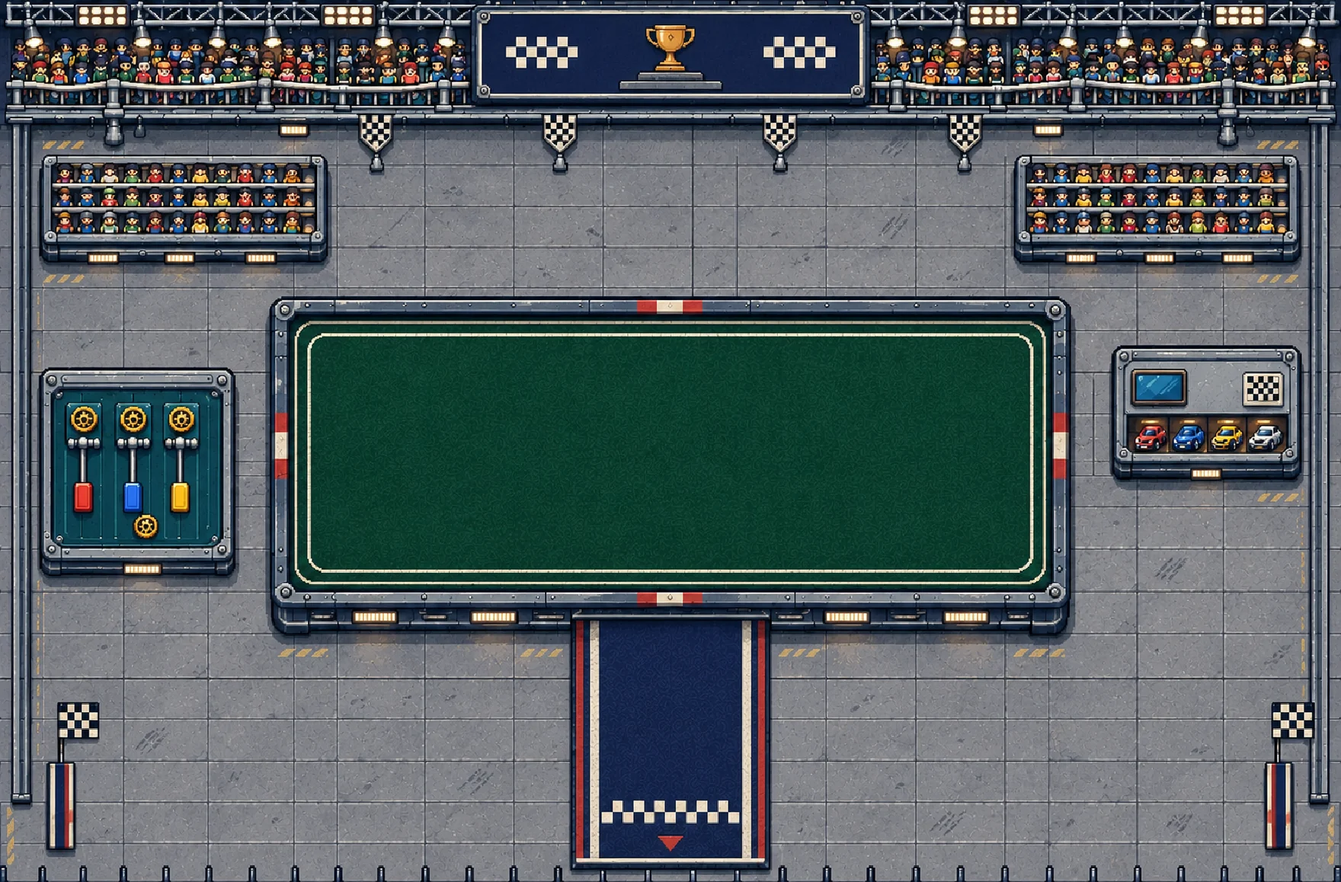
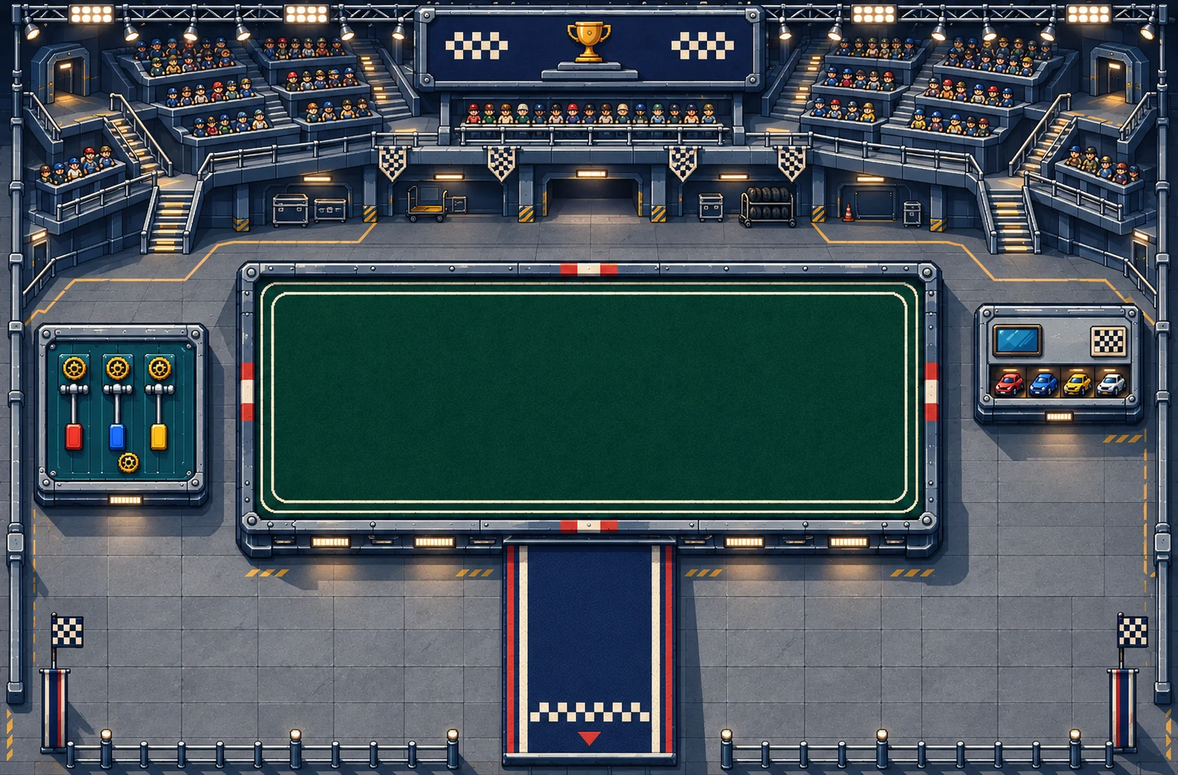
Rework 2D maps with detailed game art

diff --git a/src/game/TownArt.ts b/src/game/TownArt.ts
@@ -6,34 +6,39 @@ import {artNoise,paintPixelTree} from './PixelArtMaterials';
 import {SceneryPen} from './SceneryCanvas';
 
 /** Terrain is baked once. Pixel clusters follow a fixed, upper-left daylight. */
-function ground(c:CanvasRenderingContext2D){
+function ground(c:CanvasRenderingContext2D,chunkX=0,chunkWidth=townSize.width){
  const p=new SceneryPen(c),r=p.rect.bind(p),noise=artNoise;
- r(0,0,townSize.width,townSize.height,'#788f62');
+ const chunkEnd=chunkX+chunkWidth;
+ r(chunkX,0,chunkWidth,townSize.height,'#788f62');
  // Wide, quiet colour clusters keep the dense tufts from becoming visual noise.
- for(let y=0;y<townSize.height;y+=56)for(let x=0;x<townSize.width;x+=64){const n=noise(x,y),color=['#7b9364','#758d60','#7d9467','#748c60'][n%4];for(let row=0;row<6;row++){const inset=[16,7,2,0,5,13][row]+(noise(x,row)%3)*2;r(x+inset,y+row*7,54-inset*2,7,color);for(let edge=0;edge<3;edge++){r(x+inset-2-edge*2,y+row*7+edge*2,2,2,edge%2?color:'#788f62');r(x+54-inset+edge*2,y+row*7+2+edge,2,2,color);}}}
- for(let y=0;y<townSize.height;y+=9)for(let x=0;x<townSize.width;x+=11){const n=noise(x,y);if(n%5>1)continue;const xx=x+n%5,yy=y+(n>>>4)%4;
-  r(xx,yy+2,4,1,'#617d52');r(xx+1,yy,1,3,'#a0af77');r(xx+3,yy-1,1,3,'#8da66d');if(n%13===0)r(xx+1,yy+4,2,1,'#bdbe87');
+ const firstGrassX=Math.max(0,Math.floor(chunkX/64)*64);
+ for(let y=0;y<townSize.height;y+=56)for(let x=firstGrassX;x<chunkEnd+64;x+=64){const n=noise(x,y),color=['#7b9364','#758d60','#7d9467','#748c60'][n%4];for(let row=0;row<6;row++){const inset=[16,7,2,0,5,13][row]+(noise(x,row)%3)*2;r(x+inset,y+row*7,54-inset*2,7,color);for(let edge=0;edge<3;edge++){r(x+inset-2-edge*2,y+row*7+edge*2,2,2,edge%2?color:'#788f62');r(x+54-inset+edge*2,y+row*7+2+edge,2,2,color);}}}
+ // Larger clusters reduce busy pixel noise while retaining a natural ground rhythm.
+ const firstTuftX=Math.max(0,Math.floor(chunkX/17)*17);
+ for(let y=0;y<townSize.height;y+=18)for(let x=firstTuftX;x<chunkEnd+17;x+=17){const n=noise(x,y);if(n%5>2)continue;const xx=x+n%5,yy=y+(n>>>4)%5;
+  r(xx,yy+2,3+n%3,1,'#617d52');r(xx+1,yy,1,2+n%2,'#a0af77');r(xx+3,yy-1,1,2,'#8da66d');if(n%13===0)r(xx+1,yy+4,2,1,'#bdbe87');
  }
  // Stepped stone shore, reeds and broken reflections.
  for(let y=0;y<townSize.height;y+=8){const shore=townSize.width-210+Math.round(Math.sin(y/90)*12/2)*2;r(shore-24,y,40,8,'#87926c');r(shore-12,y,25,8,'#b4ab7c');r(shore-3,y,13,8,'#546c68');r(shore+5,y,townSize.width-shore-5,8,'#427e91');r(shore+12,y,townSize.width-shore-12,3,'#5798a6');
   for(let x=shore+25;x<townSize.width;x+=37){const n=noise(x,y);r(x+n%11,y+4,14+n%9,1,'#8ec3be');r(x+7,y+6,8,1,'#2e677f');if(n%9===0){r(shore-13,y-3,2,10,'#486c53');r(shore-10,y-5,1,11,'#9aa372');}}
  }
- const road=(x:number,y:number,w:number,h:number)=>{
+ const road=(x:number,y:number,w:number,h:number,trimLeft=true,trimRight=true)=>{
   r(x+4,y+5,w,h,'#34474a55');r(x,y,w,h,'#414f55');r(x+3,y+3,w-6,h-6,'#59666a');r(x+7,y+7,w-14,h-14,'#626f72');
   for(let yy=y+10;yy<y+h-7;yy+=11)for(let xx=x+10;xx<x+w-7;xx+=13){const n=noise(xx,yy);if(n%3===0)r(xx,yy,2,1,n%2?'#85918a':'#51646a');}
   // Irregular aggregate, tire polishing and repairs replace the flat asphalt fill.
   for(let yy=y+8;yy<y+h-8;yy+=7)for(let xx=x+8;xx<x+w-8;xx+=9){const n=noise(xx,yy,91);if(n%4===0)continue;const px=xx+n%6,py=yy+(n>>>5)%5;r(px,py,1+n%3,1,n%3===0?'#abb0a336':n%2?'#34494e36':'#d4c9a21b');if(n%11===0)r(px+1,py+1,2,1,'#253b4230');}
   for(let yy=y+20;yy<y+h-16;yy+=67)for(let xx=x+26;xx<x+w-24;xx+=83){const n=noise(xx,yy,193);if(n%5)continue;const px=xx+n%13,py=yy+(n>>>6)%14;r(px,py,9+n%14,1,'#283f4626');r(px+2,py+1,5+n%9,1,'#aab0a11b');}
   // Raised curbs, chipped paint and paired gutter lines give every road a profile.
-  r(x,y,w,3,'#c8c2a0');r(x,y+3,w,1,'#e0d3a5');r(x,y+4,2,h-8,'#c8c39c');r(x+w-3,y+4,3,h-8,'#8e9988');r(x,y+h-4,w,1,'#a7a995');r(x,y+h-3,w,3,'#77877f');
-  for(let yy=y+12;yy<y+h-12;yy+=22){r(x+5,yy,2,8,'#30454b');r(x+6,yy+1,1,6,'#abb1a3');r(x+w-8,yy,2,8,'#30454b');r(x+w-7,yy+1,1,6,'#abb1a3');}
+  r(x,y,w,3,'#c8c2a0');r(x,y+3,w,1,'#e0d3a5');if(trimLeft)r(x,y+4,2,h-8,'#c8c39c');if(trimRight)r(x+w-3,y+4,3,h-8,'#8e9988');r(x,y+h-4,w,1,'#a7a995');r(x,y+h-3,w,3,'#77877f');
+  for(let yy=y+12;yy<y+h-12;yy+=22){if(trimLeft){r(x+5,yy,2,8,'#30454b');r(x+6,yy+1,1,6,'#abb1a3');}if(trimRight){r(x+w-8,yy,2,8,'#30454b');r(x+w-7,yy+1,1,6,'#abb1a3');}}
  };
- for(const x of townRoads.vertical){road(x-70,72,140,2250);for(let y=88;y<2320;y+=30){r(x-2,y,4,13,'#c9bd8d');r(x-1,y,1,11,'#e4d5a5');for(const xx of [x-70,x+63]){r(xx,y,7,1,'#6e8279');r(xx,y+1,7,1,'#d8cfaa');}}
+ for(const x of townRoads.vertical){if(x+70<chunkX||x-70>chunkEnd)continue;road(x-70,72,140,2250);for(let y=88;y<2320;y+=30){r(x-2,y,4,13,'#c9bd8d');r(x-1,y,1,11,'#e4d5a5');for(const xx of [x-70,x+63]){r(xx,y,7,1,'#6e8279');r(xx,y+1,7,1,'#d8cfaa');}}
   for(let y=185;y<2290;y+=210){r(x+53,y,9,17,'#3d535a');for(let i=0;i<4;i++)r(x+54,y+2+i*4,7,1,'#85958e');}
  }
- for(const y of townRoads.horizontal){road(64,y-70,townSize.width-320,140);for(let x=80;x<townSize.width-256;x+=30){r(x,y-2,13,4,'#c9bd8d');r(x,y-2,12,1,'#e2d3a2');for(const yy of [y-70,y+63])r(x,yy,1,7,'#70847d');}}
+ for(const y of townRoads.horizontal){const roadStart=64,roadEnd=townSize.width-256,start=Math.max(roadStart,chunkX),end=Math.min(roadEnd,chunkEnd);if(end>start)road(start,y-70,end-start,140,start===roadStart,end===roadEnd);const firstMarker=80+Math.ceil((Math.max(80,chunkX-13)-80)/30)*30;for(let x=firstMarker;x<Math.min(roadEnd,chunkEnd);x+=30){r(x,y-2,13,4,'#c9bd8d');r(x,y-2,12,1,'#e2d3a2');for(const yy of [y-70,y+63])r(x,yy,1,7,'#70847d');}}
  for(const x of townRoads.vertical)for(const y of townRoads.horizontal){r(x-53,y-53,106,106,'#667377');for(let i=0;i<5;i++){r(x-44+i*19,y-64,9,30,'#d8d1b0');r(x-44+i*19,y+34,9,30,'#d8d1b0');}p.ellipse(x+29,y+20,9,7,'#485e64');p.ellipse(x+29,y+19,8,6,'#879188');for(let i=0;i<3;i++)r(x+24,y+16+i*3,10,1,'#596f70');}
  for(const v of townVenues){
+  if(v.x+v.w+80<chunkX||v.x-80>chunkEnd)continue;
   const cx=v.x+v.w/2,cy=v.entrance==='south'?v.y+v.h+30:v.y-30,roadY=townRoads.horizontal.reduce((a,b)=>Math.abs(b-cy)<Math.abs(a-cy)?b:a);
   const pad=v.kind==='outdoor'?{x:v.x-8,y:v.y-8,w:v.w+16,h:v.h+28}:{x:v.x-24,y:v.y-65,w:v.w+48,h:v.h+118};
   r(pad.x+3,pad.y+4,pad.w,pad.h,'#506d4e55');r(pad.x,pad.y,pad.w,pad.h,'#b0af8c');
@@ -44,14 +49,15 @@ function ground(c:CanvasRenderingContext2D){
  }
  // House fronts have their own stone thresholds and planted yards.
  for(const b of townBlocks){
+  if(b.x+b.w+8<chunkX||b.x-8>chunkEnd)continue;
   const y=b.y+b.h,cx=b.x+b.w/2;
   r(b.x-6,y+3,b.w+12,32,'#6c845b');r(b.x-5,y+4,b.w+10,1,'#a3ad7b');
   for(let yy=y+6;yy<y+55;yy+=10){r(cx-10,yy,20,8,'#b8b496');r(cx-9,yy,18,1,'#d6caa7');r(cx-10,yy+7,20,1,'#8d977c');}
   for(const x of [b.x+1,b.x+b.w-19]){r(x,y+18,18,6,'#3e624b');r(x+1,y+17,16,3,'#769364');r(x+3,y+17,3,1,'#acb681');r(x+11,y+18,2,1,'#c2ae83');}
  }
  // Park pond: layered coping stones and reeds, instead of flat nested squares.
- r(1458,1588,184,136,'#6d826c');r(1460,1590,180,132,'#b1aa88');for(let x=1462;x<1640;x+=18){r(x,1591,16,5,'#d0c6a0');r(x,1715,16,5,'#999c83');}r(1470,1600,160,112,'#345e6b');r(1473,1603,154,106,'#578e92');r(1477,1606,146,98,'#6aa59f');
- for(let i=0;i<45;i++){const n=noise(i,42),x=1482+n%133,y=1610+(n>>>9)%84;r(x,y,6+n%10,1,'#a2c5b4');if(i%5===0){p.ellipse(x,y+6,4,2,'#527f62');r(x-1,y+5,2,1,'#a4b68a');}}
+ if(chunkX<1642&&chunkEnd>1458){r(1458,1588,184,136,'#6d826c');r(1460,1590,180,132,'#b1aa88');for(let x=1462;x<1640;x+=18){r(x,1591,16,5,'#d0c6a0');r(x,1715,16,5,'#999c83');}r(1470,1600,160,112,'#345e6b');r(1473,1603,154,106,'#578e92');r(1477,1606,146,98,'#6aa59f');
+ for(let i=0;i<45;i++){const n=noise(i,42),x=1482+n%133,y=1610+(n>>>9)%84;r(x,y,6+n%10,1,'#a2c5b4');if(i%5===0){p.ellipse(x,y+6,4,2,'#527f62');r(x-1,y+5,2,1,'#a4b68a');}}}
  for(let i=0;i<340;i++){const x=80+noise(i,1)%2820,y=100+noise(i,2)%2190;if(townVenues.some(v=>x>v.x-35&&x<v.x+v.w+35&&y>v.y-75&&y<v.y+v.h+70)||townRoads.vertical.some(v=>Math.abs(v-x)<86)||townRoads.horizontal.some(v=>Math.abs(v-y)<86))continue;
   r(x,y,1,6,'#496f50');r(x-2,y+2,2,1,'#a4b87d');r(x+1,y+3,2,1,'#7e9d64');r(x-1,y-2,3,1,i%3?'#d4c18c':'#cd9e99');r(x-2,y-1,5,1,i%3?'#e7d7a4':'#e1b7af');r(x,y-1,1,1,'#f2df9d');
  }
@@ -79,7 +85,7 @@ function house(scene:Phaser.Scene,block:typeof townBlocks[number],index:number){
 }
 export function drawTown(scene:Phaser.Scene,progress:WorldProgress){
  // 大きな街でも個々の地面テクスチャは2048px以下の幅に保つ。
- for(let x=0;x<townSize.width;x+=2048){const key=`midorikawa-ground-17-${x}`;if(!scene.textures.exists(key)){const texture=scene.textures.createCanvas(key,Math.min(2048,townSize.width-x),townSize.height)!;texture.context.translate(-x,0);ground(texture.context);texture.refresh();texture.setFilter(Phaser.Textures.FilterMode.NEAREST);}scene.add.image(x,0,key).setOrigin(0).setDepth(-100);}
+ for(let x=0;x<townSize.width;x+=2048){const width=Math.min(2048,townSize.width-x),key=`midorikawa-ground-17-${x}`;if(!scene.textures.exists(key)){const texture=scene.textures.createCanvas(key,width,townSize.height)!;texture.context.translate(-x,0);ground(texture.context,x,width);texture.refresh();texture.setFilter(Phaser.Textures.FilterMode.NEAREST);}scene.add.image(x,0,key).setOrigin(0).setDepth(-100);}
 
  townBlocks.forEach((block,index)=>house(scene,block,index));
  for(const venue of townVenues)if(venue.kind==='outdoor')drawOutdoorCourse(scene,venue,isVenueOpen(venue,progress));else drawVenueFacade(scene,venue,isVenueOpen(venue,progress));

diff --git a/src/game/ThemedShopArt.ts b/src/game/ThemedShopArt.ts
@@ -75,7 +75,18 @@ function paintFixture(p:SceneryPen,f:Fixture,t:ShopTheme){
  const w=f.w,h=f.h;p.shadow(1,0,w-6,h-7);
  const casework=()=>{p.round(0,0,w,h,4,t.ink);p.gradient(2,2,w-4,h-6,t.metal,t.wood);p.rect(4,3,w-8,2,'#f9efd999');p.rect(5,h-6,w-10,3,t.ink);p.material(4,3,w-8,h-8,'wood',Math.round(w+h));for(const x of [4,w-5])for(const y of [4,h-8]){p.rect(x,y,1,1,t.light);p.rect(x+.5,y+.5,.5,.5,t.ink);}};
  if(f.kind==='plant'){p.plant(w/2,h*.65,1.2);return;}
- if(f.kind==='track'){casework();p.round(6,6,w-12,h-12,5,t.ink);p.line([[8,h-9],[w-8,h-9]],t.metal,1);return;}
+ if(f.kind==='track'){
+  casework();p.round(6,6,w-12,h-12,5,t.ink);
+  if(t.style==='atelier'){
+   p.gradient(9,9,w-18,h-23,'#6f668b','#33334b');p.rect(9,9,w-18,1,'#d8c5ef');
+   for(const [i,x] of [w*.29,w*.70].entries()){
+    const color=i?'#d7b44f':'#728fd1';p.shadow(x-37,29,74,66);p.round(x-37,29,74,66,4,'#352e49');p.round(x-34,32,68,58,3,'#76668d');
+    p.rect(x-30,36,60,2,'#ddd0bb');p.glow(x,58,28,i?'#ffd88930':'#b4ccff30');car(p,x,60,.78,color);
+    p.line([[x-29,86],[x+29,86]],'#d7c5a2',1);p.rect(x-15,84,30,2,i?'#d8bd73':'#9eb9e0');
+   }
+  }else p.line([[8,h-9],[w-8,h-9]],t.metal,1);
+  return;
+ }
  if(f.kind==='legends'){casework();p.gradient(6,5,w-12,h-12,t.ink,'#152f40');for(let i=0;i<4;i++){const x=16+i*(w-26)/4;p.glow(x+24,31,28,t.light+'30');p.round(x,12,52,46,4,'#173543');car(p,x+26,35,.62,['#5d95d5','#d4ad5e','#b2bdc5','#6778a8'][i]);p.rect(x+3,12,45,1,t.light);p.line([[x+2,14],[x+7,52],[x+16,52],[x+12,14]],'#e3f8ec33',1);}return;}
  if(f.kind==='counter'){casework();p.gradient(5,5,w-10,h*.45,'#e7e1c7',t.wood);p.round(7,6,w*.55,h*.4,3,t.ink);p.gradient(10,9,w*.52,h*.32,'#659b9c','#264a5f');for(let i=0;i<3;i++){car(p,29+i*26,24,.35,['#c26c69','#779dc2','#d4bd72'][i]);}p.poly([[11,10],[42,10],[28,37],[11,37]],'#e4f0da33');p.round(w-41,9,28,17,2,'#354955');p.rect(w-37,12,20,9,'#a3c8b7');p.round(w-45,29,36,5,1,'#d8d0b3');p.rect(w-63,11,12,17,'#e3d6b5');for(let i=0;i<4;i++)p.rect(w-61,14+i*3,8,1,'#9f977e');p.rect(5,h*.5,w-10,h*.42,t.wood);for(let x=15;x<w-10;x+=23)p.line([[x,h*.54],[x,h-11]],'#fae3bb22');p.rect(8,h*.54,w-16,1,t.metal);return;}
  if(f.kind==='bookshelf'){casework();for(let row=0;row<2;row++){p.rect(6,6+row*20,w-12,17,t.ink);for(let i=0;i<13;i++){const x=9+i*(w-20)/13;p.rect(x,8+row*20,8,14,['#9d5a68','#5f8b99','#bba15c','#7b9c7e'][i%4]);p.rect(x+1,8+row*20,1,14,'#eee4bf88');p.rect(x+2,11+row*20,5,1,'#e5dcbd');}p.rect(5,23+row*20,w-10,2,t.metal);}return;}
@@ -86,4 +97,16 @@ function paintFixture(p:SceneryPen,f:Fixture,t:ShopTheme){
  car(p,w*.43,h*.39,1.05,'#c25e66');for(let i=0;i<3;i++){const x=w-42+i*10;p.round(x,13,5,23,2,'#b8c6bf');p.round(x-1,31,7,9,2,['#bb716a','#63899a','#c5ac6e'][i]);p.rect(x+1,14,1,12,'#f3ecdb');}p.round(11,12,17,32,2,'#b1beb5');p.ellipse(19,21,5,5,'#55747a');p.rect(14,35,10,3,'#e2cf9e');p.rect(12,h-19,w-24,10,t.metal);for(const x of [w*.25,w*.7])p.round(x,h-17,18,3,1,t.ink);
 }
 export function drawThemedRoom(scene:Phaser.Scene,id:ShopId){if(drawPaintedScenery(scene,id))return;const key=texture(scene,`room-v3-${id}`,960,640,p=>paintShopRoom(p,id));scene.add.image(0,0,key).setOrigin(0).setDisplaySize(960,640).setDepth(-100);}
-export function drawThemedFixture(scene:Phaser.Scene,f:Fixture,id:ShopId){if(drawPaintedFixture(scene,id,f))return;const key=texture(scene,`fixture-v3-${id}-${f.kind}-${f.w}-${f.h}`,f.w+9,f.h+10,p=>{if(isPracticeCourse(id)&&f.kind==='shelf'){const t=shopThemes[id];p.rect(0,0,f.w,f.h,t.ink);for(let row=0;row<6;row++){const y=row*29;p.gradient(2,y+1,f.w-4,26,t.metal,t.ink);for(let col=0;col<3;col++){const x=10+col*(f.w-20)/3;p.round(x,y+4,15,13,2,row%2?t.accent:t.wood);p.ellipse(x+7,y+4,4,4,['#d4b991','#bd9277','#e6c89d'][col]);p.rect(x+4,y+15,7,7,'#354e65');}}}else paintFixture(p,f,shopThemes[id]);});scene.add.image(f.x,f.y,key).setOrigin(0).setDisplaySize(f.w+9,f.h+10).setDepth(f.y+f.h);}
+export function drawThemedFixture(scene:Phaser.Scene,f:Fixture,id:ShopId){
+ // The top-center display is a fixed game object for four named legend machines.
+ // Background art may contain decorative wall shelving in the same area; always
+ // draw this fixture from its semantic type so the interactive object matches.
+ if(f.kind==='legends'||f.kind==='track'&&id==='atelier'){
+  const role=f.kind==='legends'?'legends':'machine-showcase';
+  const key=texture(scene,`fixture-v4-${id}-${role}-${f.w}-${f.h}`,f.w+9,f.h+10,p=>paintFixture(p,f,shopThemes[id]));
+  scene.add.image(f.x,f.y,key).setOrigin(0).setDisplaySize(f.w+9,f.h+10).setDepth(f.y+f.h);return;
+ }
+ if(drawPaintedFixture(scene,id,f))return;
+ const key=texture(scene,`fixture-v3-${id}-${f.kind}-${f.w}-${f.h}`,f.w+9,f.h+10,p=>{if(isPracticeCourse(id)&&f.kind==='shelf'){const t=shopThemes[id];p.rect(0,0,f.w,f.h,t.ink);for(let row=0;row<6;row++){const y=row*29;p.gradient(2,y+1,f.w-4,26,t.metal,t.ink);for(let col=0;col<3;col++){const x=10+col*(f.w-20)/3;p.round(x,y+4,15,13,2,row%2?t.accent:t.wood);p.ellipse(x+7,y+4,4,4,['#d4b991','#bd9277','#e6c89d'][col]);p.rect(x+4,y+15,7,7,'#354e65');}}}else paintFixture(p,f,shopThemes[id]);});
+ scene.add.image(f.x,f.y,key).setOrigin(0).setDisplaySize(f.w+9,f.h+10).setDepth(f.y+f.h);
+}

diff --git a/docs/art-overhaul-progress.md b/docs/art-overhaul-progress.md
@@ -1,0 +1,76 @@
+# セイラン 2Dアート全面改修 — 対象台帳と進捗
+
+この台帳は全面改修の作業範囲と、実機確認の有無を明確にするためのもの。変更を一部の画面だけで「全体改修済み」と扱わない。
+
+## 共通仕様
+
+- カメラ: 2D探索画面は一貫した南向き3/4俯瞰。壁・床・家具・人物は同じ投影にそろえ、文字/UIだけは高DPIで滑らかに描く。
+- 論理スケール: 屋内960×640、公式会場の可視範囲880×579（roomViewの原画オフセット込み）、町5400×2400。見た目の整列は16ワールド単位を目安にするが、既存の自由移動座標は維持する。
+- キャラクター: 原画60×80、表示48×64を基準に足元と接地影を合わせる。NPC個性、歩行フレーム、会話肖像、当たり判定は同じキャラクター定義を使う。
+- 原画密度: 屋内は論理寸法の1.6〜2倍、公式会場は現行roomViewに合わせた原画、人物は原画枠に沿う密度を基準にする。拡大処理だけで細部を作ったことにはしない。
+- 画風: 手描きの高密度ピクセルクラスター、限定パレット、整理した輪郭、左上光源、4段階程度の陰影、接地影。床はマット、照り返しは小さくする。展示商品は人物・棚に対する縮尺を守る。
+- 高DPI: CanvasのCSS表示寸法と内部解像度を分離し、端末DPRは上限2。原画はNEAREST、動き・文字・UIは読みやすさを優先する。
+- 互換性: イベント、NPC、入口、タップ矩形、衝突、出現位置、レース経路、セーブ形式を変える場合は関連する全座標とデータ互換を同時に更新する。
+
+## 対象台帳
+
+| 対象 | データ/描画 | 状態 |
+| --- | --- | --- |
+| 街全域、道路、歩道、芝生、住宅、商店、植栽、外周 | `world.ts`, `TownArt.ts`, `PixelArtMaterials.ts`, `VenueFacadeArt.ts`, `WorldDetailArt.ts` | 調査済み。地形・施設密度・長距離表示を評価して改修 |
+| 屋外コース、巨大マスターコース4面 | `OutdoorCourseArt.ts`, `shopTrackLayout.ts`, `world.ts` | 全コースの表示・経路・アクセスを調査して改修 |
+| こもれび模型店 | `scenery/komorebi.webp`, `shop.ts`, `shopLayout.ts` | 背景更新・実画面確認 |
+| あおぞら模型店 | `scenery/aozora.webp`, `shop.ts`, `shopLayout.ts` | 背景更新、左右反転の確認待ち |
+| ひなた模型店 | `scenery/hinata.webp`, `shop.ts`, `shopLayout.ts` | 背景更新 |
+| わかば模型店 | `scenery/wakaba.webp`, `shop.ts`, `shopLayout.ts` | 背景更新 |
+| ゆうなぎ模型店 | `scenery/yuunagi.webp`, `shop.ts`, `shopLayout.ts` | 背景更新 |
+| あかつき模型店 | `scenery/akatsuki.webp`, `shop.ts`, `shopLayout.ts` | 背景更新 |
+| 星霧模型工房 | `scenery/atelier.webp`, `shop.ts`, `shopLayout.ts` | 背景更新 |
+| ながみち耐久工房 | `scenery/endurance.webp`, `shop.ts`, `shopLayout.ts` | 背景更新 |
+| 駆動・速度・悪路の専門店 | `scenery/hinata.webp`, `aozora.webp`, `wakaba.webp`, `specialtyParts.ts` | 共用の3背景を更新 |
+| ほしくず模型店 | `scenery/hoshikuzu.webp`, `ThemedShopArt.ts` | 新規専用背景を追加 |
+| 若葉レース場 | `scenery/stadium-5.webp`, `OfficialVenueArt.ts`, `officialVenue.ts` | 背景更新、実画面再撮影待ち |
+| 星空レース場 | `scenery/stadium-9.webp`, 同上 | 背景更新 |
+| 緑川グランプリ会場 | `scenery/stadium-10.webp`, 同上 | 背景更新 |
+| 天頂決戦会場 | `scenery/stadium-7.webp`, 同上 | 背景更新 |
+| 図書館 | `LibraryRoomArt.ts`, `libraryRoom.ts` | 棚・机・導線を対象 |
+| 受付、コース案内、記録掲示板、会話マーカー | `CounterArt.ts`, `RecordBoardArt.ts`, `ShopScene.ts`, `raceIntro.ts` | 既存用途とタップ範囲を維持して対象 |
+| プレイヤー、街NPC、店員、レジェンド、観客、メカニック | `PeopleArt.ts`, `PlayerArt.ts`, `NpcPeopleArt.ts`, `LegendPeopleArt.ts`, `TownCrowdArt.ts`, `PersonTexture.ts` | 既存の個別原画・60×80設計・48×64表示・足元影を維持し、全方向/歩行フレームの既存テスト確認 |
+| パーツ商品画像181点 | `assets/parts`, `PartArtwork.tsx`, `BodyArtwork.tsx` | 一覧を視覚監査。商品ごとの精密な製品レンダーと透過背景を維持 |
+| キャラクター肖像19点とNPCアトラス | `assets/portraits`, `NpcPeopleArt.ts` | 全肖像を一覧監査。既存のキャラ画風、顔立ち、歩行キャラとの対応を維持 |
+| 実走レースの3Dマシン/コース、UI、タッチ操作 | `TrialView.tsx`, `MachineModel.ts`, CSS/UI | 2D世界との縮尺・色調和、既存機能を確認 |
+
+## 進捗
+
+- [x] 最新Previewを確認。作業開始時`a70c40b`、作業中にリモートの独立変更`4b5020e`を取り込み。未追跡`pnpm-workspace.yaml`は保持。
+- [x] 描画経路、旧背景12点、店舗・会場配置、人物/パーツ素材構成を棚卸し。
+- [x] 共通仕様と対象台帳を作成。
+- [x] 店内9室と公式会場4面の原画を再制作し、店舗に未登録だったほしくず専用背景を追加。
+- [x] 店舗の試走台背景から描き込みコースを除き、ゲームデータの実コース表示と重なる問題を修正。
+- [x] レジェンド展示に4台の車両を表示する前景を追加。
+- [x] 町の地面を区画ごとに描いてから配置し、草地の粒ノイズを減らす。
+- [x] 町、図書館、屋外コース、観客、家具、商品、人物を一覧/実画面/コンタクトシートで監査。配置・役割・縮尺が合う既存の図書館・コース・観客・人物・商品原画はそのまま使用。
+- [x] 移動、会話対象の吹き出し、コース描画、店内と会場の人物/家具重なりを実画面で確認。座標・イベント・当たり判定・セーブ形式に変更なし。
+- [x] 全9店舗、4公式会場、町、図書館を1280×800で撮影。店舗と町を390×844・DPR2でも撮影。Chromiumで実行時エラーなし。iPhone Safari実機では未確認。
+- [x] TypeScript型チェックとVite本番ビルド成功。最新Previewで全375テストを実行し372件成功。描画レイアウトとDPR2の対象テスト4件も通過。
+- [ ] 下記3件の失敗は今回変更した背景・町描画・什器ファイル外で再現。完了前に一覧を報告する。
+
+## 今回の変更と未解決事項
+
+- 店内9室の高精細WebPと公式会場4面を再制作し、ほしくずの専用背景を追加。全背景を必要な場面だけロードする既存構造は維持。
+- `drawShopTrack`が実際のコースデータを描くため、店背景にコースを焼き込まず、模型店の画面ではコース線が二重に見えないことを確認。
+- レジェンド展示には4台、星霧工房の販売展示には2台の前景車体を描画。販売専門店で遊べないレースコースを表示しない。
+- 町地面の3枚タイルは、タイルの区画内だけ草・歩道・建物接続を描画し、区画ごとの全域再描画をやめた。草地の細かな斑点を減らし、スマホのDPR2画面で確認。
+- `src/assets/parts`の181商品画像は均一な物撮り・陰影・透過背景があり、形状読解に使われるため保持。歩行キャラと肖像は個人デザインを保ち、高精細な既存16bit肖像/3倍原画を保持。
+- 全テスト実行は375件中372件成功。失敗は以下の通り（対象実装は今回変更していない）: `dirtCrawl.test.ts` 通常装備の砂路面走行、`installedAppearance.test.ts` 耐久ブレース外観、`raceAdvice.test.ts` 耐久店の案内文。
+- `pnpm typecheck`は環境ラッパーの`ERR_PNPM_IGNORED_BUILDS`で依存インストール段階に停止。既存の`./node_modules/.bin/tsc --noEmit`は成功。`./node_modules/.bin/vite build`も成功（大きな既存JSチャンクのサイズ警告あり）。
+- 比較画像と全店舗一覧は`/workspace/scratch/art-audit/review-all-shops.jpg`、元/新店舗は`baseline/komorebi.png`と`current/shop-final.png`、会場は`baseline/stadium-5.png`と`current/final-stadium-5.png`、町は`baseline/town.png`と`current/final-town.png`、モバイル相当は`current/mobile-komorebi.png`と`current/mobile-town.png`にある。
+
+## マップ確認一覧
+
+屋内: こもれび、あおぞら、ひなた、わかば、ゆうなぎ、あかつき、星霧、耐久、ほしくず、駆動、速度、悪路、図書館。
+
+屋外: 町全域、緑川町立図書館外観、全店舗外観、全レース施設、全通常コース、4巨大マスターコース。
+
+公式会場: 若葉ダート、星空テクニカル、緑川グランプリ、天頂ゼニスクラウン。
+
+この文書内のチェック状態は実際の確認後に更新する。スクリーンショット未取得の表示を確認済みとしない。

diff --git a/docs/scenery-art.md b/docs/scenery-art.md
@@ -2,7 +2,7 @@
 
 ## 施設原画
 
-通常店舗、専門店、耐久店、公式会場の背景は`src/assets/scenery/<施設ID>.webp`に置く。既存の12施設原画を保ちながら、2026-11-10に主要店舗5店と公式会場1棟を二度目の大幅な描き直し対象にした。新しい原画は店舗1536×1024（論理座標の1.6倍）、会場1760×1158。こもれび・あおぞら・ひなた・ゆうなぎ・atelierの5室を今回の対象とし、わかば・あかつき・耐久店と残る公式会場は前回原画を維持する。木、鋼板、ゴム、ガラス、石床などの材質と照明のコントラストを上げ、元の一様なタイル床を避けた。WebP品質92でも各ファイルは約0.5〜0.7MBに収まり、シーンごとに必要な背景だけ読み込む。既存作品の画像・ロゴ・キャラクターデザインは使わない。
+2026-11-10の全面改修で、店内9背景と公式会場4背景、合計13原画を独自の3/4俯瞰画調へ描き直した。通常店・専門店・耐久店・クリア後店は`src/assets/scenery/<施設ID>.webp`の1536×1024 WebP。公式会場は1546×1017で、論理roomViewに対し近いピクセル密度を保つ。木、塗装鋼板、ゴム、ガラス、石床を描き分け、広い歩行床は落ち着かせる。各場面で必要な背景だけ読み込む。既存作品の画像・ロゴ・キャラクターデザインは使わない。
 
 | 施設ID | 維持するテーマ |
 | --- | --- |
@@ -14,10 +14,11 @@
 | akatsuki | テラコッタ、えんじ色、控えめなトロフィー |
 | atelier | 薄紫と灰色、工具と小さな天体モチーフ |
 | endurance | 耐久レース用の実用的な設備と落ち着いた配色 |
+| hoshikuzu | クリア後の希少パーツ展示、紺色と銀色の作業場 |
 | stadium-5 | 塗装スチール、コンクリート床、観客席とピット用品 |
 | stadium-7 / 9 / 10 | 大会ごとの紺・紫・赤系のアクセントと観客席 |
 
-店舗画像は全室`{x:0,y:0,width:960,height:640}`へ、会場画像は`roomView={x:40,y:35,width:880,height:579}`へ配置する。あおぞらは原画と前景切り抜きを同じように左右反転する。`drawPaintedFixture`は背景と同じ画像から同じ座標変換で家具を切り出し、人物との前後関係を保つ。家具の位置、歩行通路、当たり判定、入口、設備のタップ範囲は`shopLayout`と既存データを使い、変更しない。コース面は背景へ描き込まず、`drawShopTrack`が実形状を描画する。
+店舗画像は全室`{x:0,y:0,width:960,height:640}`へ、会場画像は`roomView={x:40,y:35,width:880,height:579}`へ配置する。あおぞらは原画と前景切り抜きを同じように左右反転する。家具の位置、歩行通路、当たり判定、入口、設備のタップ範囲は`shopLayout`と既存データを使い、変更しない。レジェンド展示は意味のある4台のマシンを前景へ描き、コース面は背景へ描き込まず、`drawShopTrack`が実際のコースデータを描画する。
 
 通常の模型店では南側入口から受付、左右の商品棚・本棚、奥の整備台、右奥の試走コースへ通路が続く。公式会場は外周の観覧席から中央のコースを見られる配置を保つ。画像上の飾りを増やす場合も、通路や操作対象の位置を塞がない。
 
@@ -29,11 +30,11 @@
 
 ## 原画更新の手順
 
-1. 現在の画像と`docs/art/shop-layout-reference.png`を配置参照として開く。
-2. 同じ俯瞰画角、キャンバス比率、家具の矩形、空いた通路を固定して描き直す。
-3. 各店の色テーマと、商品箱・工具・模型コースなどの固有要素を維持する。
-4. 背景と前景を同じ原画から切り出し、`paintedSceneryLayout`と`paintedFixtureFrame`で位置を照合する。
-5. 同じカメラ位置のスクリーンショットで、人物・家具・通路・文字の重なりを確認する。
+1. `shopLayout`/`officialVenue.ts`と現在の画面で家具・コース位置を確定する。
+2. 同じ俯瞰画角、キャンバス比率、家具の矩形、空いた通路を保って原画を描き直す。
+3. 各施設の色テーマと商品棚・工具・空の走行台の用途を合わせる。
+4. 前景切り抜き、家具深度、実コースを同じカメラのスクリーンショットで照合する。
+5. 重なりや違和感を見つけたら原画または前景描画を修正し、再撮影する。
 
 町の画像は広域一枚絵にしない。街の配置変更が必要になった場合は、`world.ts`の建物・道路・入口・衝突データと`townCrowd.ts`の人物配置を先に見直し、ゲーム内の座標関係をテストする。
 

diff --git a/docs/shop-interior-art.md b/docs/shop-interior-art.md
@@ -2,12 +2,12 @@
 
 ## 現在の制作方式
 
-実際の店内表示は`src/assets/scenery/<施設ID>.webp`を`PaintedScenery`から読み込む。`src/assets/shop/interior-v1.webp`はこもれび模型店の原画を確認する参照コピーで、ゲーム内では施設別画像が使われる。2026-11-10の二次更新ではこもれび・あおぞら・ひなた・ゆうなぎ・星霧工房を別々の素材・照明設計で描き直した。わかば・あかつき・耐久店の原画は従来版を保つ。専門店の駆動・速度・悪路店はそれぞれひなた・あおぞら・わかばの背景を共有する。
+実際の店内表示は`src/assets/scenery/<施設ID>.webp`を`PaintedScenery`から読み込む。`src/assets/shop/interior-v1.webp`はこもれび模型店の確認用コピー。2026-11-10の全面改修で、こもれび・あおぞら・ひなた・わかば・ゆうなぎ・あかつき・星霧・耐久・ほしくずの9室を共通画角と素材密度にそろえた。ほしくずは独立原画にして、これまで専用画像がなかった部屋も揃えた。駆動・速度・悪路の専門店は既存のとおり、ひなた・あおぞら・わかばの背景を共有する。
 
-- 論理室内は960×640。背景原画は従来の1920×1280または新しい1536×1024。すべてWebPで、画像の個性を保ちながらシーンごとに必要な背景だけを読み込む。
+- 論理室内は960×640。全室の新原画は1536×1024、WebP品質90で、シーンごとに必要な背景だけを読み込む。
 - 入口は南側の`shopExit`、開始位置は`room.spawn`。これらは変更しない。
 - 家具の論理位置は`shopLayout`が決める。通常店は入口→受付・商品棚→本棚・整備台→コースの順に見通せる。コースは実際の試走設備として扱い、`drawShopTrack`の形状と走行ロジックを使う。
-- 描画は背景と同じ画像から家具を切り出す。`drawPaintedFixture`が家具の下端で深度を決め、歩行人物が家具の後ろへ隠れる。画像全体を家具の当たり判定に使うことはせず、既存のfixture矩形と移動判定を維持する。
+- 多くの家具は背景と同じ画像から切り出し、`drawPaintedFixture`が家具の下端で深度を決める。レジェンド展示は家具種類に応じた前景を優先し、4台のマシンを実際に表示する。試走コース台は背景にコースの絵を含めず、`drawShopTrack`が正規の走行コースだけを描く。既存のfixture矩形と移動判定は維持する。
 - 店名、説明、記録、購入、キャラクターはゲーム内の文字・人物・UIで表示する。背景画像へ焼き込まない。
 - `shopRenderScale`はDPR2まででCSS表示寸法と描画解像度を分離する。`PaintedScenery`はNEARESTサンプリングを使い、背景のピクセル輪郭を保つ。
 

diff --git a/docs/pixel-art-direction.md b/docs/pixel-art-direction.md
@@ -24,6 +24,16 @@
 - 町の広域地面は2048ワールド単位以下の幅に分割する。移動中に作り直さない背景・家具は一枚のキャッシュテクスチャに焼き込む。
 - 人物の4方向×4歩行フレームは同じキャラクターの髪・顔・服・足元をそろえる。`PeopleArt`、`NpcPeopleArt`、`PersonTexture`の表示寸法と接地影を共有する。
 
+## 共通アート仕様
+
+- 配置基準: 16ワールド単位を小物・床目地の目安とする。現行の自由移動と既存マップ寸法は変えず、建物・人物・家具の足元をマップ座標へ合わせる。
+- ピクセル密度: 屋内背景は960×640論理面に対して1536×1024（1.6px/ワールド単位）。公式会場は880×579の可視面に1546×1017（約1.76px/ワールド単位）。人物原画は60×80を3倍テクスチャで作り48×64で表示。町の地面は2048×2400以下の区画に分け、キャラクターや建物より細かい粒へ崩さない。
+- 色: 基礎色は青灰、落ち着いた青緑、木の茶、温かい石色。各店の識別色は1〜2色を主役にし、同じ什器色・壁色へ統一する。床のハイライトを白く強く反射させない。
+- 輪郭: 家具と人物の外形は暗い青灰〜焦茶の約1〜2論理px相当。素材内部の目地は外形より細く・弱くし、全周を黒線で囲わない。
+- 光と影: 左上光源。面ごとに基礎色・光・中間影・接地/深影の段階を使う。床接触の暗い影は家具足元に沿わせ、長い影は右下へ短く落とす。金属やガラスの白い反射は短い線と面に限定する。
+- テクスチャ密度: 目立つ物は固有シルエットと複数の色塊で描き、広い床や壁の細部を抑える。同じ箱・窓・観客を規則的に並べない。商品箱は人の手のひら程度、コース模型は家具上の占有寸法に収める。
+- ピクセル形状: 斜線やカーブはNEARESTで保ち、1px前後の装飾を増やすより、2〜8px程度の意味ある色塊を優先する。テキスト、UI、入力反応には高DPIの滑らかさを使う。
+
 ## 変更後の確認
 
 施設原画を更新したら、全施設を960×640の論理配置へ重ね、`paintedSceneryLayout`と`paintedFixtureFrame`で家具の前景切り抜きが一致することを確認する。町は同じ画面サイズ・カメラ位置で道路幅、建物入口、NPC・外コースの位置を確認する。iPhone Safariの実機確認ができない場合はDPR2のモバイルブラウザで確認し、実機未検証を記録する。
